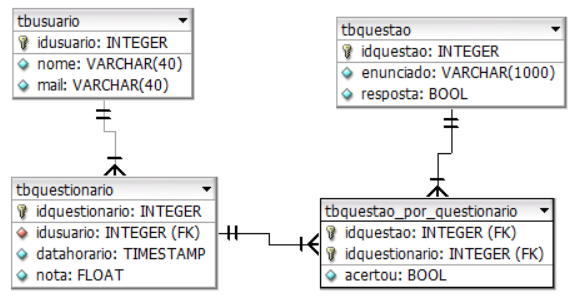
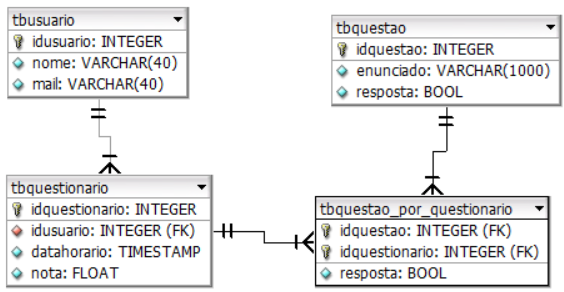
codigo

Changed region(s): [[0.0, 0.0, 1.0, 0.9863]]

diff --git a/src/controladores/questionario.js b/src/controladores/questionario.js
@@ -11,7 +11,7 @@ async function listarQuestionario(req, res) {
   // retorna 4 questões aleatórias
   let resposta = await pool.query(
     `SELECT a.idquestionario, a.datahorario, a.nota,
-            c.enunciado, b.acertou 
+            c.enunciado, b.resposta 
      FROM tbquestionario as a, tbquestao_por_questionario as b, tbquestao as c
      WHERE a.idusuario = $1 
         AND a.idquestionario = b.idquestionario
@@ -21,9 +21,82 @@ async function listarQuestionario(req, res) {
   return res.json(resposta.rows);
 }
 
+/*
+Padrão de requisição para cadastrar um questionário
+{
+  "idusuario":1,
+  "questoes": [
+    {"idquestao":2,"resposta":false},
+    {"idquestao":5,"resposta":true},
+    {"idquestao":10,"resposta":true},
+    {"idquestao":15,"resposta":false}
+  ]
+}
+*/
 async function salvarQuestionario(req,res){
   const {idusuario,questoes} = req.body;
-  return res.json("resposta");
+
+  if( !idusuario ){
+    return res.json({ erro: "Forneça os seus dados" });
+  }
+
+  if( !questoes || questoes.length == 0 ){
+    return res.json({ erro: "Foneça as questões do questionário" });
+  }
+
+  // Verifica se o usuário já tem algum questionário com nota >= 70
+  let resposta = await pool.query(
+    `SELECT nota::float
+     FROM tbquestionario
+     WHERE idusuario = $1 AND nota >= 70`,
+     [idusuario]
+  );
+  
+  if( resposta.rowCount > 0 && resposta.rows[0].nota > 0 ){
+    return res.json({ erro: `Você não pode responder o questionário novamente. Você já foi aprovado com nota ${resposta.rows[0].nota}` });
+  }
+
+  // Calcula a nota nas questões
+  let soma = 0;
+  for( let i = 0; i < questoes.length; i++ ){
+    // Obtém a nota na questão 0 ou 1
+    resposta = await pool.query(
+      `SELECT count(*)::INTEGER 
+       FROM tbquestao
+       WHERE idquestao = $1 AND resposta = $2`,
+       [questoes[i].idquestao, questoes[i].resposta]
+    );
+    soma += resposta.rows[0].count;
+  }
+
+  // Obtém a média de acertos
+  let nota = soma / questoes.length * 100;
+
+  if( nota >= 70 ){
+    // Cria o questionário
+    const respostaQuestionario = await pool.query(
+      "INSERT INTO tbquestionario(idusuario,nota) VALUES ($1,$2) RETURNING idquestionario,datahorario,nota",
+      [idusuario, nota]
+    );
+    const idquestionario = respostaQuestionario.rows[0].idquestionario;
+    if( idquestionario ){
+      // Salva cada questão
+      for( let i = 0; i < questoes.length; i++ ){
+        respostaQuestao = await pool.query(
+          "INSERT INTO tbquestao_por_questionario(idquestionario,idquestao,resposta) VALUES ($1,$2,$3) RETURNING idquestionario,idquestao,resposta",
+          [idquestionario,questoes[i].idquestao, questoes[i].resposta]
+        );
+      }
+      return res.json(respostaQuestionario.rows[0]);
+    }
+    else{
+      return res.json({erro:"Problemas para salvar o questionário"});
+    }
+  }
+  else{
+    return res.json({nota});
+  }
+  
 }
 
 // Exporta as funções
